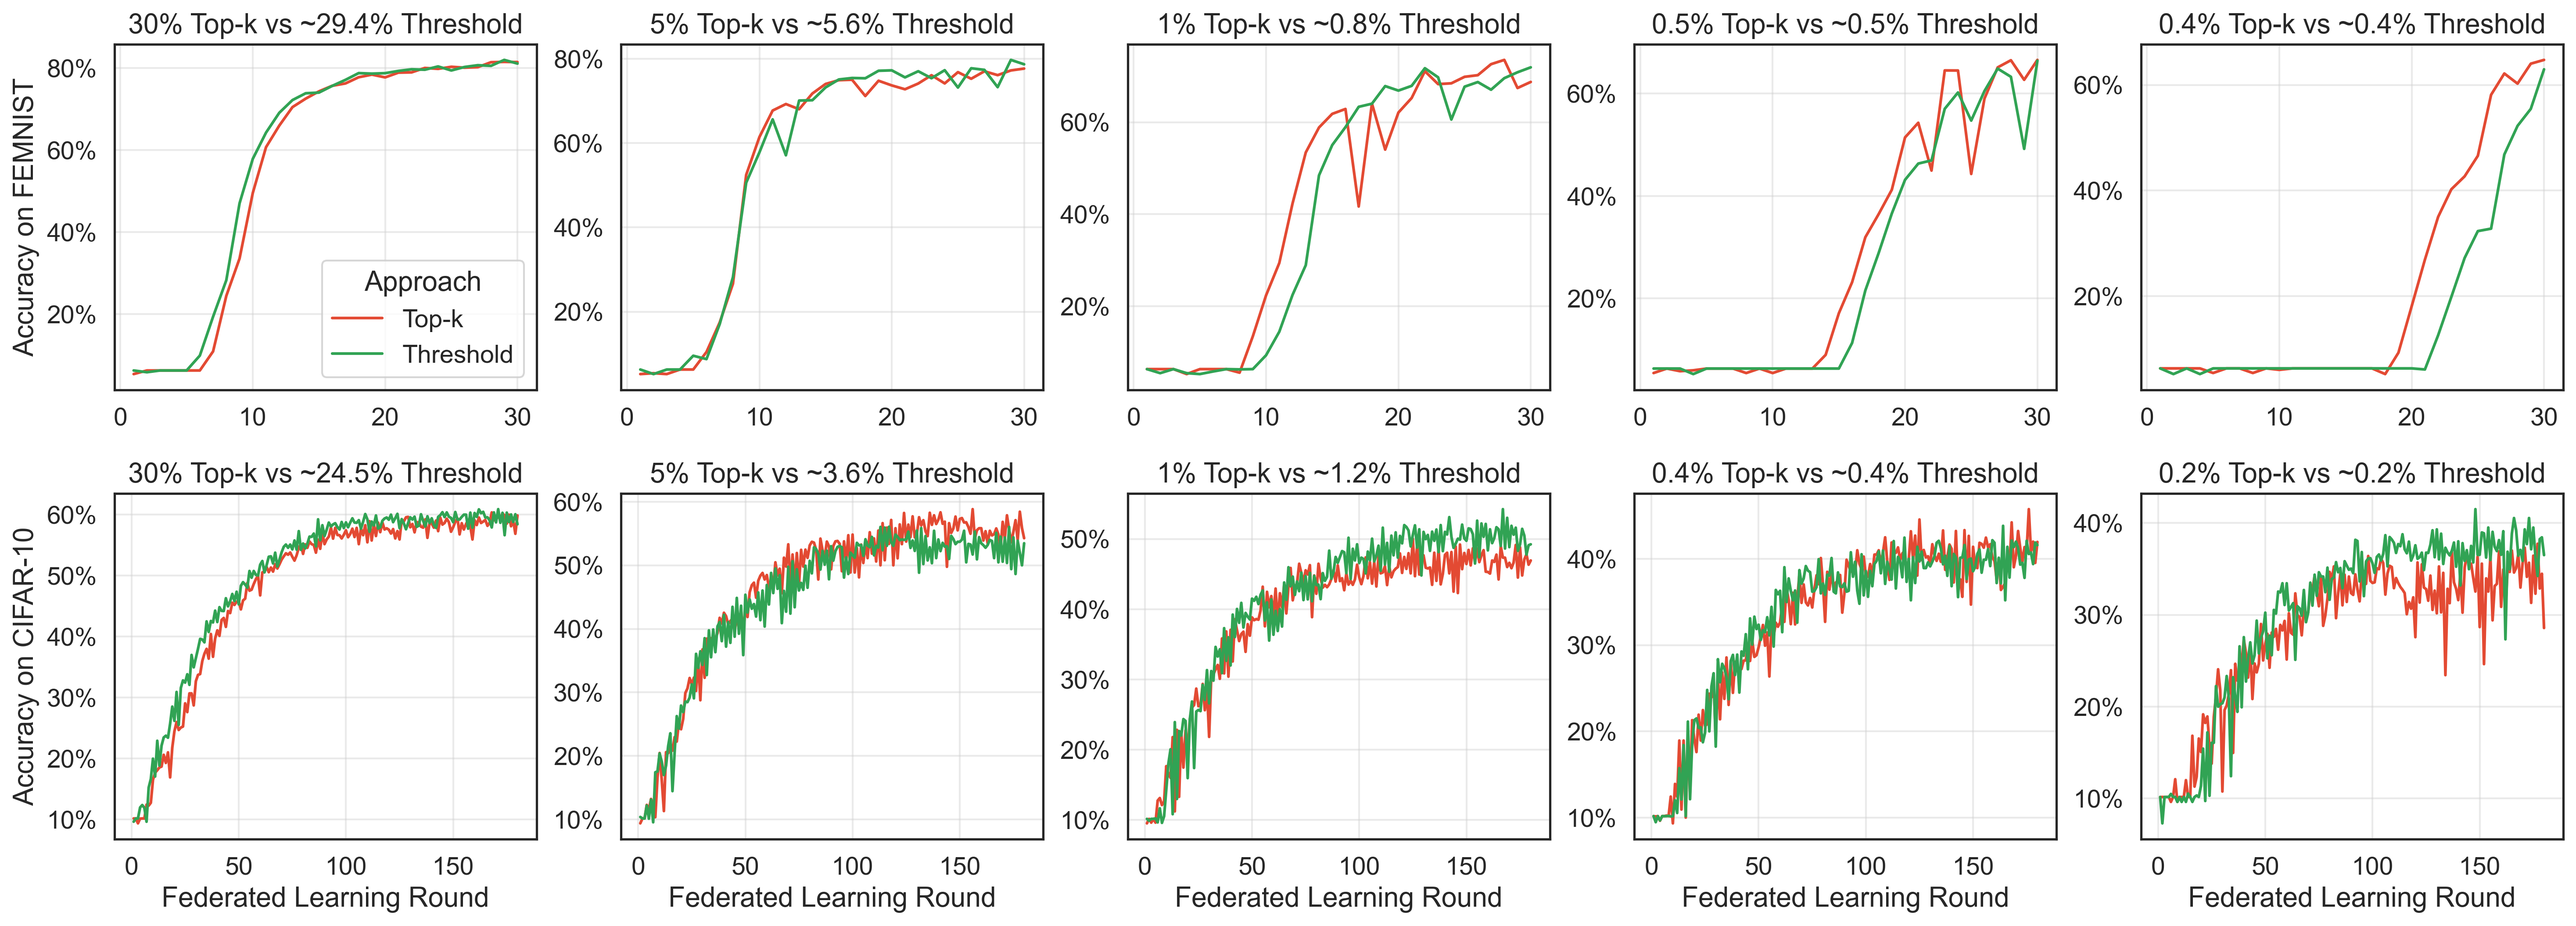
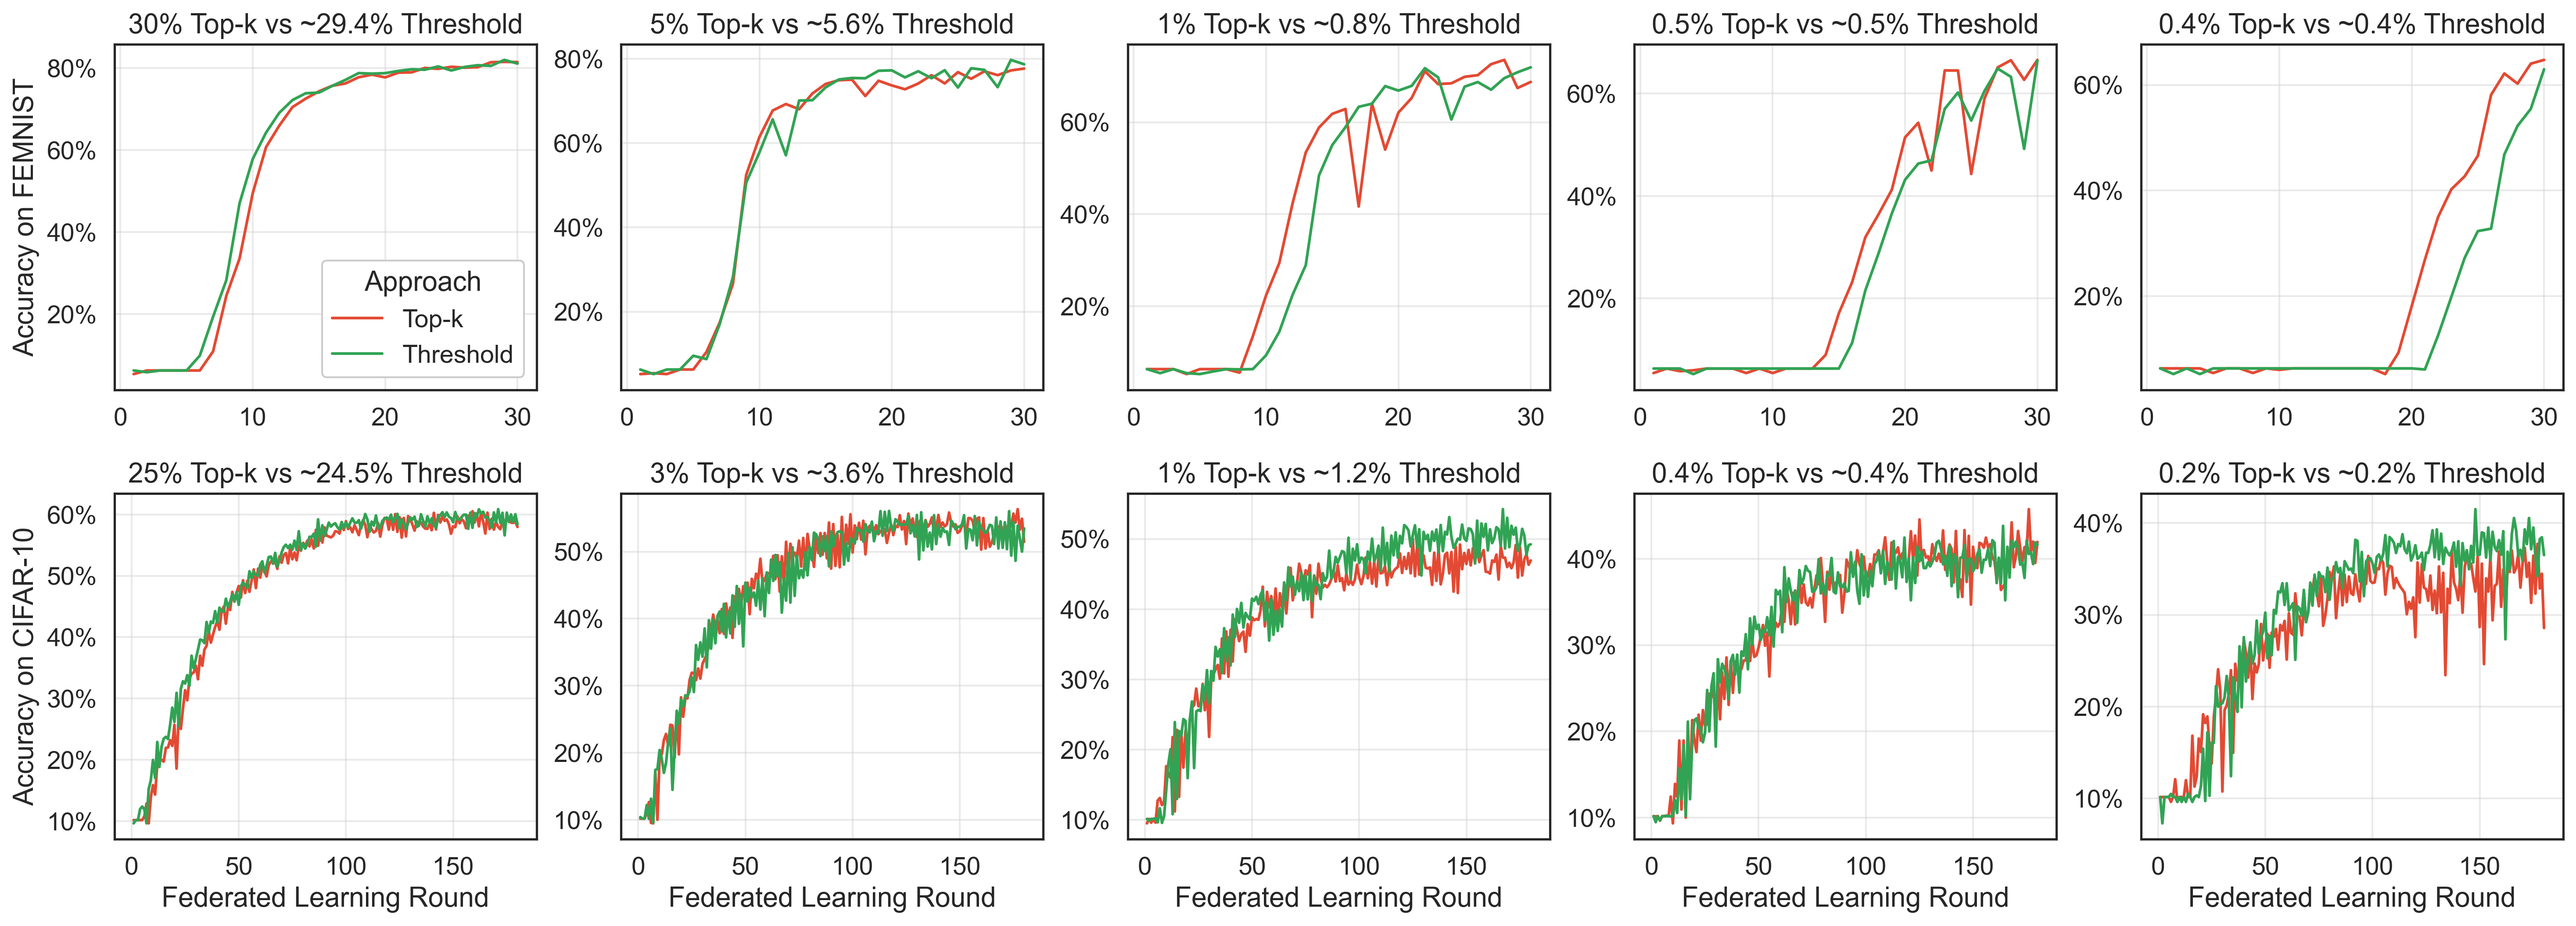
Update figures

diff --git a/sparsification/generate_plots.py b/sparsification/generate_plots.py
@@ -110,7 +110,7 @@ def plot_download_size():
     ax.set_ylabel("Client Download Size (Bytes)");
     ax.text(x=0.75, y=0.8, s="* Public\ndataset\nsize", alpha=0.6, horizontalalignment="right", fontsize=17, transform=ax.transAxes);
     ax.set_title("Download Size for each Client on CIFAR-10", fontsize=16);
-    ax.set_xticklabels(["FedAvg", "Sparsification", "One-shot\n(MA-Echo)", "Distillation"]);
+    ax.set_xticklabels(["FedAvg", "Sparsification", "One-shot\n(MA-Echo)", "Federated\nDistillation"]);
 
     plt.savefig("figures/download_size_cifar.png", 
                 dpi=300,
@@ -118,14 +118,18 @@ def plot_download_size():
                 facecolor="white")
     
 def plot_sparsification_pareto():
+    
     all_results = pd.read_csv("results/results.csv")
+    all_results = all_results[all_results["keep_first_last"]==False]
     extra_topk = pd.read_csv("results/threshold_vs_topk.csv").iloc[:,:-1]
-    all_results = all_results[all_results["keep_first_last"]==False].reset_index(drop=True)
-    all_results = pd.concat([all_results, extra_topk]).drop_duplicates().reset_index(drop=True)
+    fedavg = pd.read_csv("results/fedavg_results.csv")
+    fedavg = fedavg.rename(columns={"client_bytes":"bytes_size"})
+    fedavg["spars_label"] = "FedAvg"
+    all_results = pd.concat([all_results, extra_topk, fedavg]).drop_duplicates().reset_index(drop=True)
     all_results["max_accuracy"] = all_results["accs"].apply(lambda row: max([value[1] for value in ast.literal_eval(row)]))
 
-    palette = ['#2b8cbe', '#e34a33', '#31a354']
-    palette_dict = {"Top-k":'#b30000', "Random":'#045a8d', "Threshold":'#006837'}
+    palette = ["#000000", '#2b8cbe', '#e34a33', '#31a354']
+    palette_dict = {"FedAvg":"#000000", "Top-k":'#b30000', "Random":'#045a8d', "Threshold":'#006837'}
 
     sns.set_theme(style='white', font_scale=1.25)
     fig, axes = plt.subplots(ncols=2, 
@@ -156,7 +160,7 @@ def plot_sparsification_pareto():
                      x="bytes_size", 
                      y="max_accuracy", 
                      hue="approach", 
-                     hue_order=["Random", "Top-k", "Threshold"],
+                     hue_order=["FedAvg", "Random", "Top-k", "Threshold"],
                      palette=palette,
                      s=200,
                      alpha=1,
@@ -167,7 +171,7 @@ def plot_sparsification_pareto():
              y="max_accuracy", 
              hue="approach", 
              hue_order=["Top-k", "Threshold"],
-             palette=palette[1:],
+             palette=palette[2:],
              s=200,
              alpha=1,
              ax=axes[i, 1])
@@ -215,6 +219,13 @@ def plot_sparsification_pareto():
             axes[i, x].legend(title="Sparsification\nApproach", facecolor = 'white', framealpha=1.0, loc="lower right");
             axes[1, x].set_xlabel("Bytes Uploaded by a Client")
             axes[0, x].set_xlabel("")
+            handles, labels = axes[0, 0].get_legend_handles_labels()
+            axes[x, 0].legend([handles[0]] + ["Sparsification", "Approach"] + handles[1:4],
+                      [labels[0]] + ["", ""] + labels[1:4],
+                       handler_map={str: LegendTitle({'fontsize': 15})},
+                       facecolor="white",
+                       framealpha=1,
+                       loc="lower right")
 
     axes[0, 0].set_title("Bytes Uploaded vs Accuracy\nfor Sparsification Approaches on FEMNIST")
     axes[0, 1].set_title("Pareto Optimal Sparsification Approaches on FEMNIST")
@@ -303,7 +314,7 @@ def plot_combined_pareto():
             axes[i, x].set_ylabel("")
 
     handles, labels = axes[0, 0].get_legend_handles_labels()
-    axes[1, 1].legend([handles[0]] + ["Sparsification"] + handles[1:4] + ["Distillation"] + handles[4:6] + ["One-shot"] + handles[6:10],
+    axes[1, 1].legend([handles[0]] + ["Sparsification"] + handles[1:4] + ["Federated distillation"] + handles[4:6] + ["One-shot"] + handles[6:10],
                  [labels[0]] + [""] + labels[1:4] + [""] + ["Distillation (10 (CIFAR) \n or 4 (FEMNIST) rounds)", "Distillation (2 rounds)"] + [""] + labels[6:10],
                    handler_map={str: LegendTitle({'fontsize': 15})},
                    facecolor="white",
@@ -817,7 +828,57 @@ def plot_threshold_over_time():
                 dpi=300,
                 bbox_inches="tight",
                 facecolor="white")
+
     
+def plot_threshold_vs_topk():
+    
+    results = pd.read_csv("results/threshold_vs_topk.csv")
+    results["accs"] = results["accs"].apply(lambda row: ast.literal_eval(row))
+    results = results.explode("accs").reset_index(drop=True)
+    results["round"] = results["accs"].apply(lambda row: row[0])
+    results["accuracy"] = results["accs"].apply(lambda row: row[1])
+    sns.set_theme(style="white", font_scale=1.25)
+    fig, axes = plt.subplots(ncols=5, nrows=2, 
+                             figsize=(24, 8), 
+                             gridspec_kw={"wspace": 0.2,
+                                          "hspace": 0.3})
+    titles=["30% Top-k vs ~29.4% Threshold",
+            "5% Top-k vs ~5.6% Threshold",
+            "1% Top-k vs ~0.8% Threshold",
+            "0.5% Top-k vs ~0.5% Threshold",
+            "0.4% Top-k vs ~0.4% Threshold",
+            "25% Top-k vs ~24.5% Threshold",
+            "3% Top-k vs ~3.6% Threshold",
+            "1% Top-k vs ~1.2% Threshold",
+            "0.4% Top-k vs ~0.4% Threshold",
+            "0.2% Top-k vs ~0.2% Threshold"]
+    for plot, ax in enumerate(axes.reshape(-1), start=1):
+        sns.lineplot(data=results[results["plot"]==plot],
+                     x="round",
+                     y="accuracy",
+                     hue="approach",
+                     palette=["#e34a33", "#31a354"],
+                     linewidth=1.5,
+                     ax=ax)
+        ax.yaxis.set_major_formatter(mtick.PercentFormatter(decimals=0))
+        ax.grid(alpha=0.4, zorder=-300)
+        ax.set_ylabel("")
+        ax.set_xlabel("")
+        ax.get_legend().remove()
+        ax.set_title(titles[plot-1])
+    axes[0, 0].legend(title="Approach", framealpha=1)
+
+    axes[0, 0].set_ylabel("Accuracy on FEMNIST")
+    axes[1, 0].set_ylabel("Accuracy on CIFAR-10")
+
+    for i in range(5):
+        axes[1, i].set_xlabel("Federated Learning Round")
+
+    plt.savefig(f"figures/topk_vs_threshold.png", 
+                dpi=300,
+                bbox_inches="tight",
+                facecolor="white")
+
 class LegendTitle(object):
     def __init__(self, text_props=None):
         self.text_props = text_props or {}
